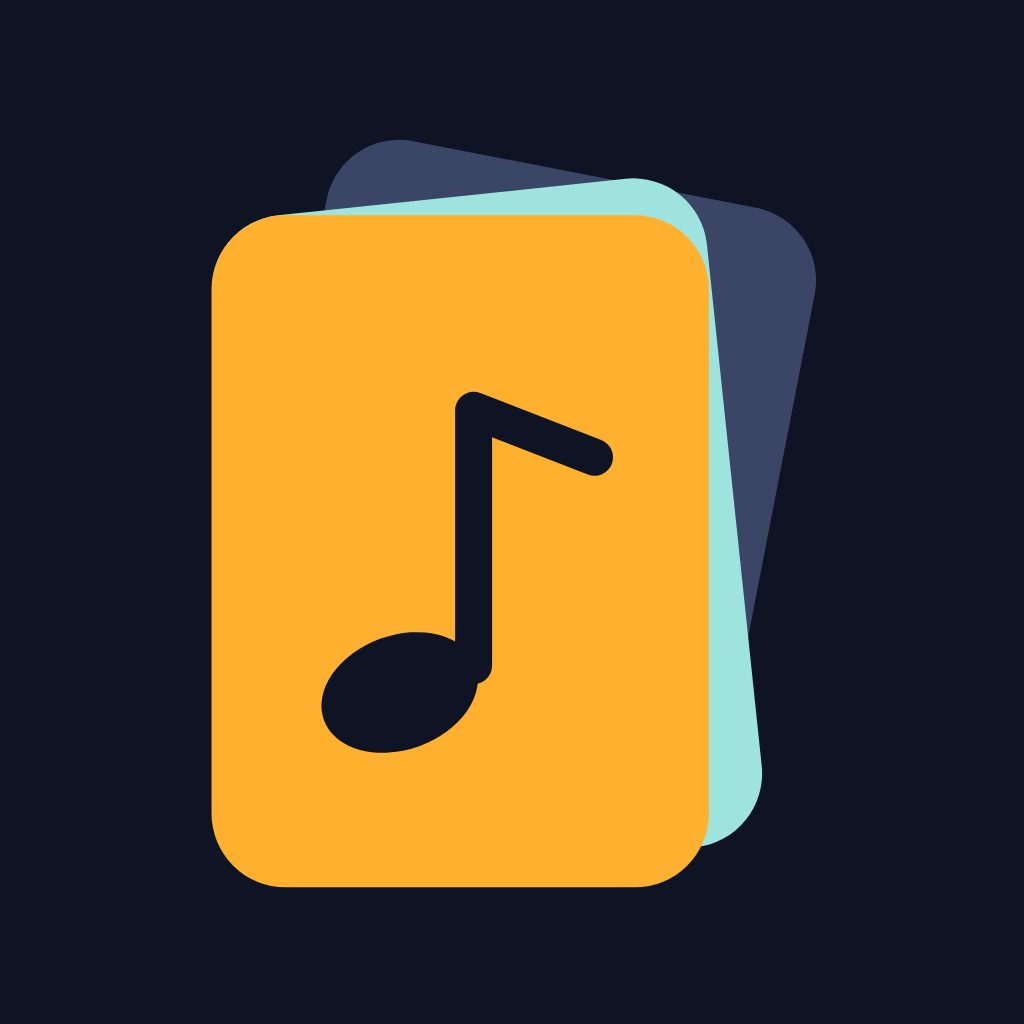
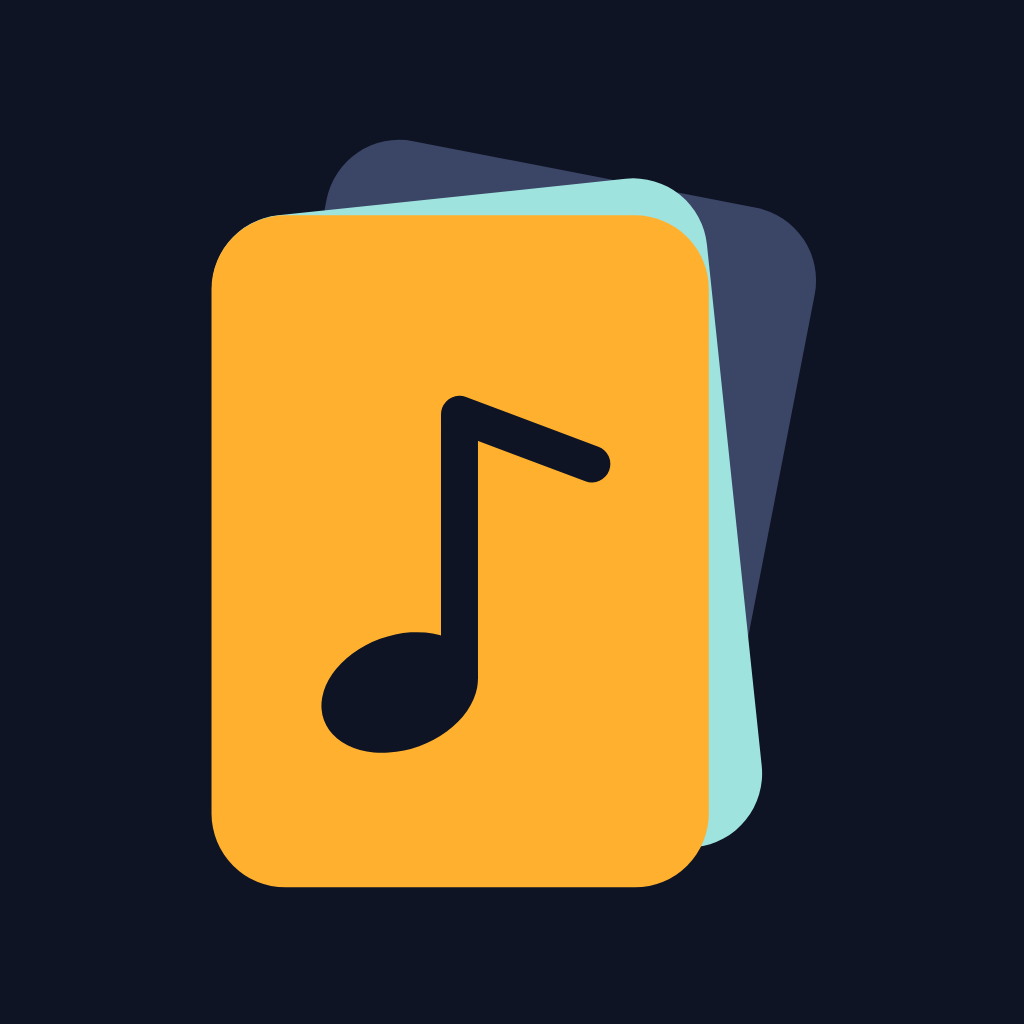
Ship page templates as Python and stop reading TZ from the environment
The plugin directory only accepts Markdown, text, JSON, YAML and images
from individual developers, so each skill's HTML template now lives in
scripts/page_template.py. The timezone is read from /etc/localtime only,
since reading environment variables tripped the directory's credential
check. The icon's note stem now joins the head cleanly, and the icon
field is dropped from plugin.json (the directory finds the default path).

Changed region(s): [[0.4062, 0.375, 0.5938, 0.6562]]

diff --git a/plugin/skills/youtube-story/scripts/page_template.py b/plugin/skills/youtube-story/scripts/page_template.py
@@ -1,4 +1,8 @@
-<title>__TITLE__</title>
+"""The page template: HTML with __TITLE__, __DATA__ and __STORY__ placeholders that render.py fills.
+
+Kept as a Python string so the plugin ships only text files the plugin directory accepts.
+"""
+TEMPLATE = r'''<title>__TITLE__</title>
 <meta name="claude:viewport-fit-sides" content="cover">
 <link rel="preconnect" href="https://fonts.googleapis.com">
 <link rel="stylesheet" href="https://fonts.googleapis.com/css2?family=Bricolage+Grotesque:opsz,wght@12..96,400;12..96,600;12..96,800&family=Inter:wght@400;500;600&family=JetBrains+Mono:wght@400;600&display=swap">
@@ -581,3 +585,4 @@ $('l-method').innerHTML = [
   ...(S.method_extra || []),
 ].map(t => `<li>${md(t)}</li>`).join('');
 </script>
+'''

diff --git a/plugin/skills/spotify-story/scripts/render.py b/plugin/skills/spotify-story/scripts/render.py
@@ -113,7 +113,8 @@ def main():
         print(f'PAIRING CHECK: {len(unpaired)} sentence(s) put a number next to a name with no facts.md line holding both. Check each:')
         for n_, b_, s_ in unpaired:
             print(f"  {n_} + {', '.join(b_)}  ←  {s_}")
-    tpl = open(os.path.join(HERE, '..', 'assets', 'template.html'), encoding='utf-8').read()
+    sys.path.insert(0, HERE)
+    from page_template import TEMPLATE as tpl
     safe = lambda o: json.dumps(o, ensure_ascii=False, separators=(',', ':'), default=str).replace('</', '<\\/')  # noqa: E731
     out = (tpl.replace('__TITLE__', html.escape(story['title']))
               .replace('__DATA__', safe(data)).replace('__STORY__', safe(story)))

diff --git a/plugin/skills/youtube-story/scripts/render.py b/plugin/skills/youtube-story/scripts/render.py
@@ -108,7 +108,8 @@ def main():
         print(f'PAIRING CHECK: {len(unpaired)} sentence(s) put a number next to a name with no facts.md line holding both. Check each:')
         for n_, b_, s_ in unpaired:
             print(f"  {n_} + {', '.join(b_)}  ←  {s_}")
-    tpl = open(os.path.join(HERE, '..', 'assets', 'template.html'), encoding='utf-8').read()
+    sys.path.insert(0, HERE)
+    from page_template import TEMPLATE as tpl
     safe = lambda o: json.dumps(o, ensure_ascii=False, separators=(',', ':'), default=str).replace('</', '<\\/')  # noqa: E731
     out = (tpl.replace('__TITLE__', html.escape(story['title']))
               .replace('__DATA__', safe(data)).replace('__STORY__', safe(story)))

diff --git a/plugin/skills/youtube-vs-spotify/scripts/render.py b/plugin/skills/youtube-vs-spotify/scripts/render.py
@@ -109,7 +109,8 @@ def main():
         print(f'PAIRING CHECK: {len(unpaired)} sentence(s) put a number next to a name with no facts.md line holding both. Check each:')
         for n_, b_, s_ in unpaired:
             print(f"  {n_} + {', '.join(b_)}  ←  {s_}")
-    tpl = open(os.path.join(HERE, '..', 'assets', 'template.html'), encoding='utf-8').read()
+    sys.path.insert(0, HERE)
+    from page_template import TEMPLATE as tpl
     safe = lambda o: json.dumps(o, ensure_ascii=False, separators=(',', ':'), default=str).replace('</', '<\\/')  # noqa: E731
     out = (tpl.replace('__TITLE__', html.escape(story['title']))
               .replace('__DATA__', safe(data)).replace('__STORY__', safe(story)))

diff --git a/plugin/skills/spotify-story/scripts/page_template.py b/plugin/skills/spotify-story/scripts/page_template.py
@@ -1,4 +1,8 @@
-<title>__TITLE__</title>
+"""The page template: HTML with __TITLE__, __DATA__ and __STORY__ placeholders that render.py fills.
+
+Kept as a Python string so the plugin ships only text files the plugin directory accepts.
+"""
+TEMPLATE = r'''<title>__TITLE__</title>
 <meta name="claude:viewport-fit-sides" content="cover">
 <link rel="preconnect" href="https://fonts.googleapis.com">
 <link rel="stylesheet" href="https://fonts.googleapis.com/css2?family=Syne:wght@600;700;800&family=Inter:wght@400;500;600&family=JetBrains+Mono:wght@400;600&display=swap">
@@ -608,3 +612,4 @@ $('l-method').innerHTML = [
   ...(S.method_extra || []),
 ].map(t => `<li>${md(t)}</li>`).join('');
 </script>
+'''

diff --git a/plugin/skills/youtube-vs-spotify/scripts/page_template.py b/plugin/skills/youtube-vs-spotify/scripts/page_template.py
@@ -1,4 +1,8 @@
-<title>__TITLE__</title>
+"""The page template: HTML with __TITLE__, __DATA__ and __STORY__ placeholders that render.py fills.
+
+Kept as a Python string so the plugin ships only text files the plugin directory accepts.
+"""
+TEMPLATE = r'''<title>__TITLE__</title>
 <meta name="claude:viewport-fit-sides" content="cover">
 <link rel="preconnect" href="https://fonts.googleapis.com">
 <link rel="stylesheet" href="https://fonts.googleapis.com/css2?family=Syne:wght@600;700;800&family=Inter:wght@400;500;600&family=JetBrains+Mono:wght@400;600&display=swap">
@@ -312,3 +316,4 @@ $('l-method').innerHTML = [
   ...(S.method_extra || []),
 ].map(t => `<li>${md(t)}</li>`).join('');
 </script>
+'''

diff --git a/plugin/skills/youtube-story/scripts/takeout.py b/plugin/skills/youtube-story/scripts/takeout.py
@@ -18,9 +18,6 @@ from zoneinfo import ZoneInfo
 
 def system_tz():
     """IANA name of this machine's zone, or UTC."""
-    tz = os.environ.get('TZ')
-    if tz:
-        return tz
     try:
         p = os.path.realpath('/etc/localtime')
         if 'zoneinfo/' in p:

diff --git a/plugin/skills/youtube-vs-spotify/scripts/takeout.py b/plugin/skills/youtube-vs-spotify/scripts/takeout.py
@@ -18,9 +18,6 @@ from zoneinfo import ZoneInfo
 
 def system_tz():
     """IANA name of this machine's zone, or UTC."""
-    tz = os.environ.get('TZ')
-    if tz:
-        return tz
     try:
         p = os.path.realpath('/etc/localtime')
         if 'zoneinfo/' in p:

diff --git a/plugin/skills/spotify-story/scripts/spotify.py b/plugin/skills/spotify-story/scripts/spotify.py
@@ -21,9 +21,6 @@ from zoneinfo import ZoneInfo
 
 
 def system_tz():
-    tz = os.environ.get('TZ')
-    if tz:
-        return tz
     p = os.path.realpath('/etc/localtime')
     return p.split('zoneinfo/', 1)[1] if 'zoneinfo/' in p else 'UTC'
 

diff --git a/plugin/skills/youtube-vs-spotify/scripts/spotify.py b/plugin/skills/youtube-vs-spotify/scripts/spotify.py
@@ -21,9 +21,6 @@ from zoneinfo import ZoneInfo
 
 
 def system_tz():
-    tz = os.environ.get('TZ')
-    if tz:
-        return tz
     p = os.path.realpath('/etc/localtime')
     return p.split('zoneinfo/', 1)[1] if 'zoneinfo/' in p else 'UTC'
 

diff --git a/README.md b/README.md
@@ -50,7 +50,7 @@ plugin/                           the plugin itself (only this folder is shipped
   .claude-plugin/                 plugin.json and icon.png
   skills/
     start/                        front door: what you need, how to download it, plain-language setup
-    youtube-story/                SKILL.md, scripts/, assets/template.html, references/story.md
+    youtube-story/                SKILL.md, scripts/ (incl. page_template.py), references/story.md
     spotify-story/                same shape
     youtube-vs-spotify/           same shape
   README.md, LICENSE
